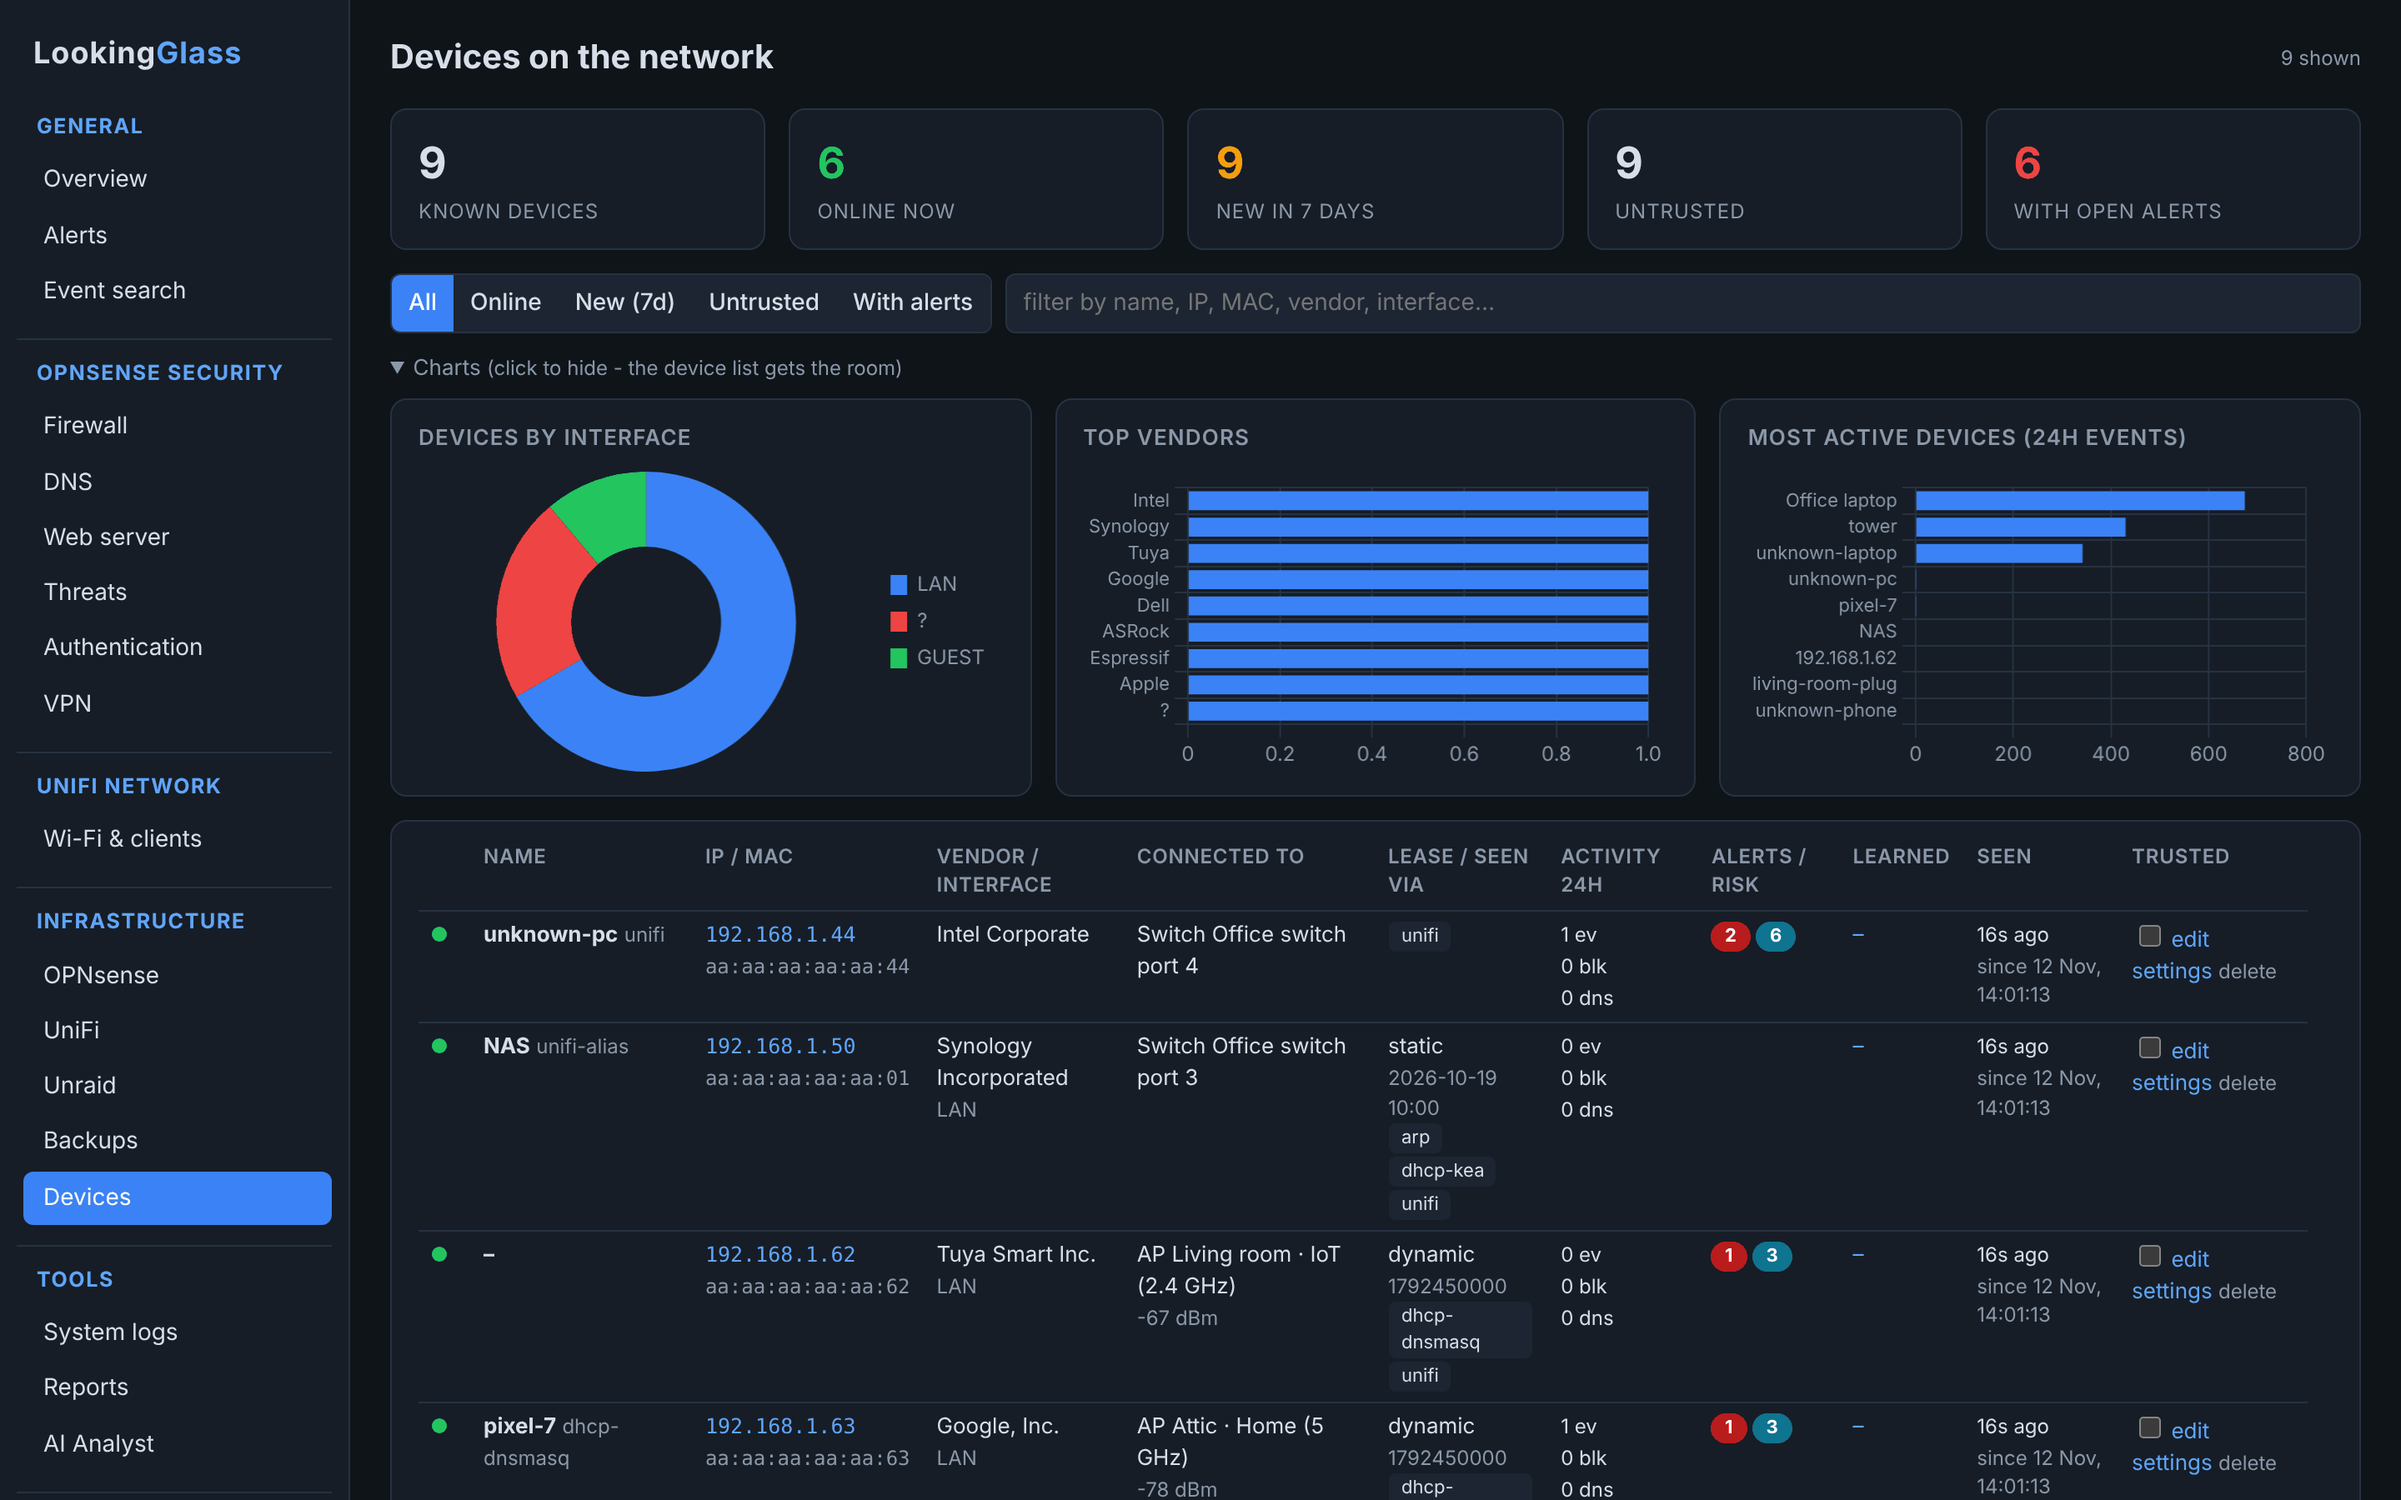
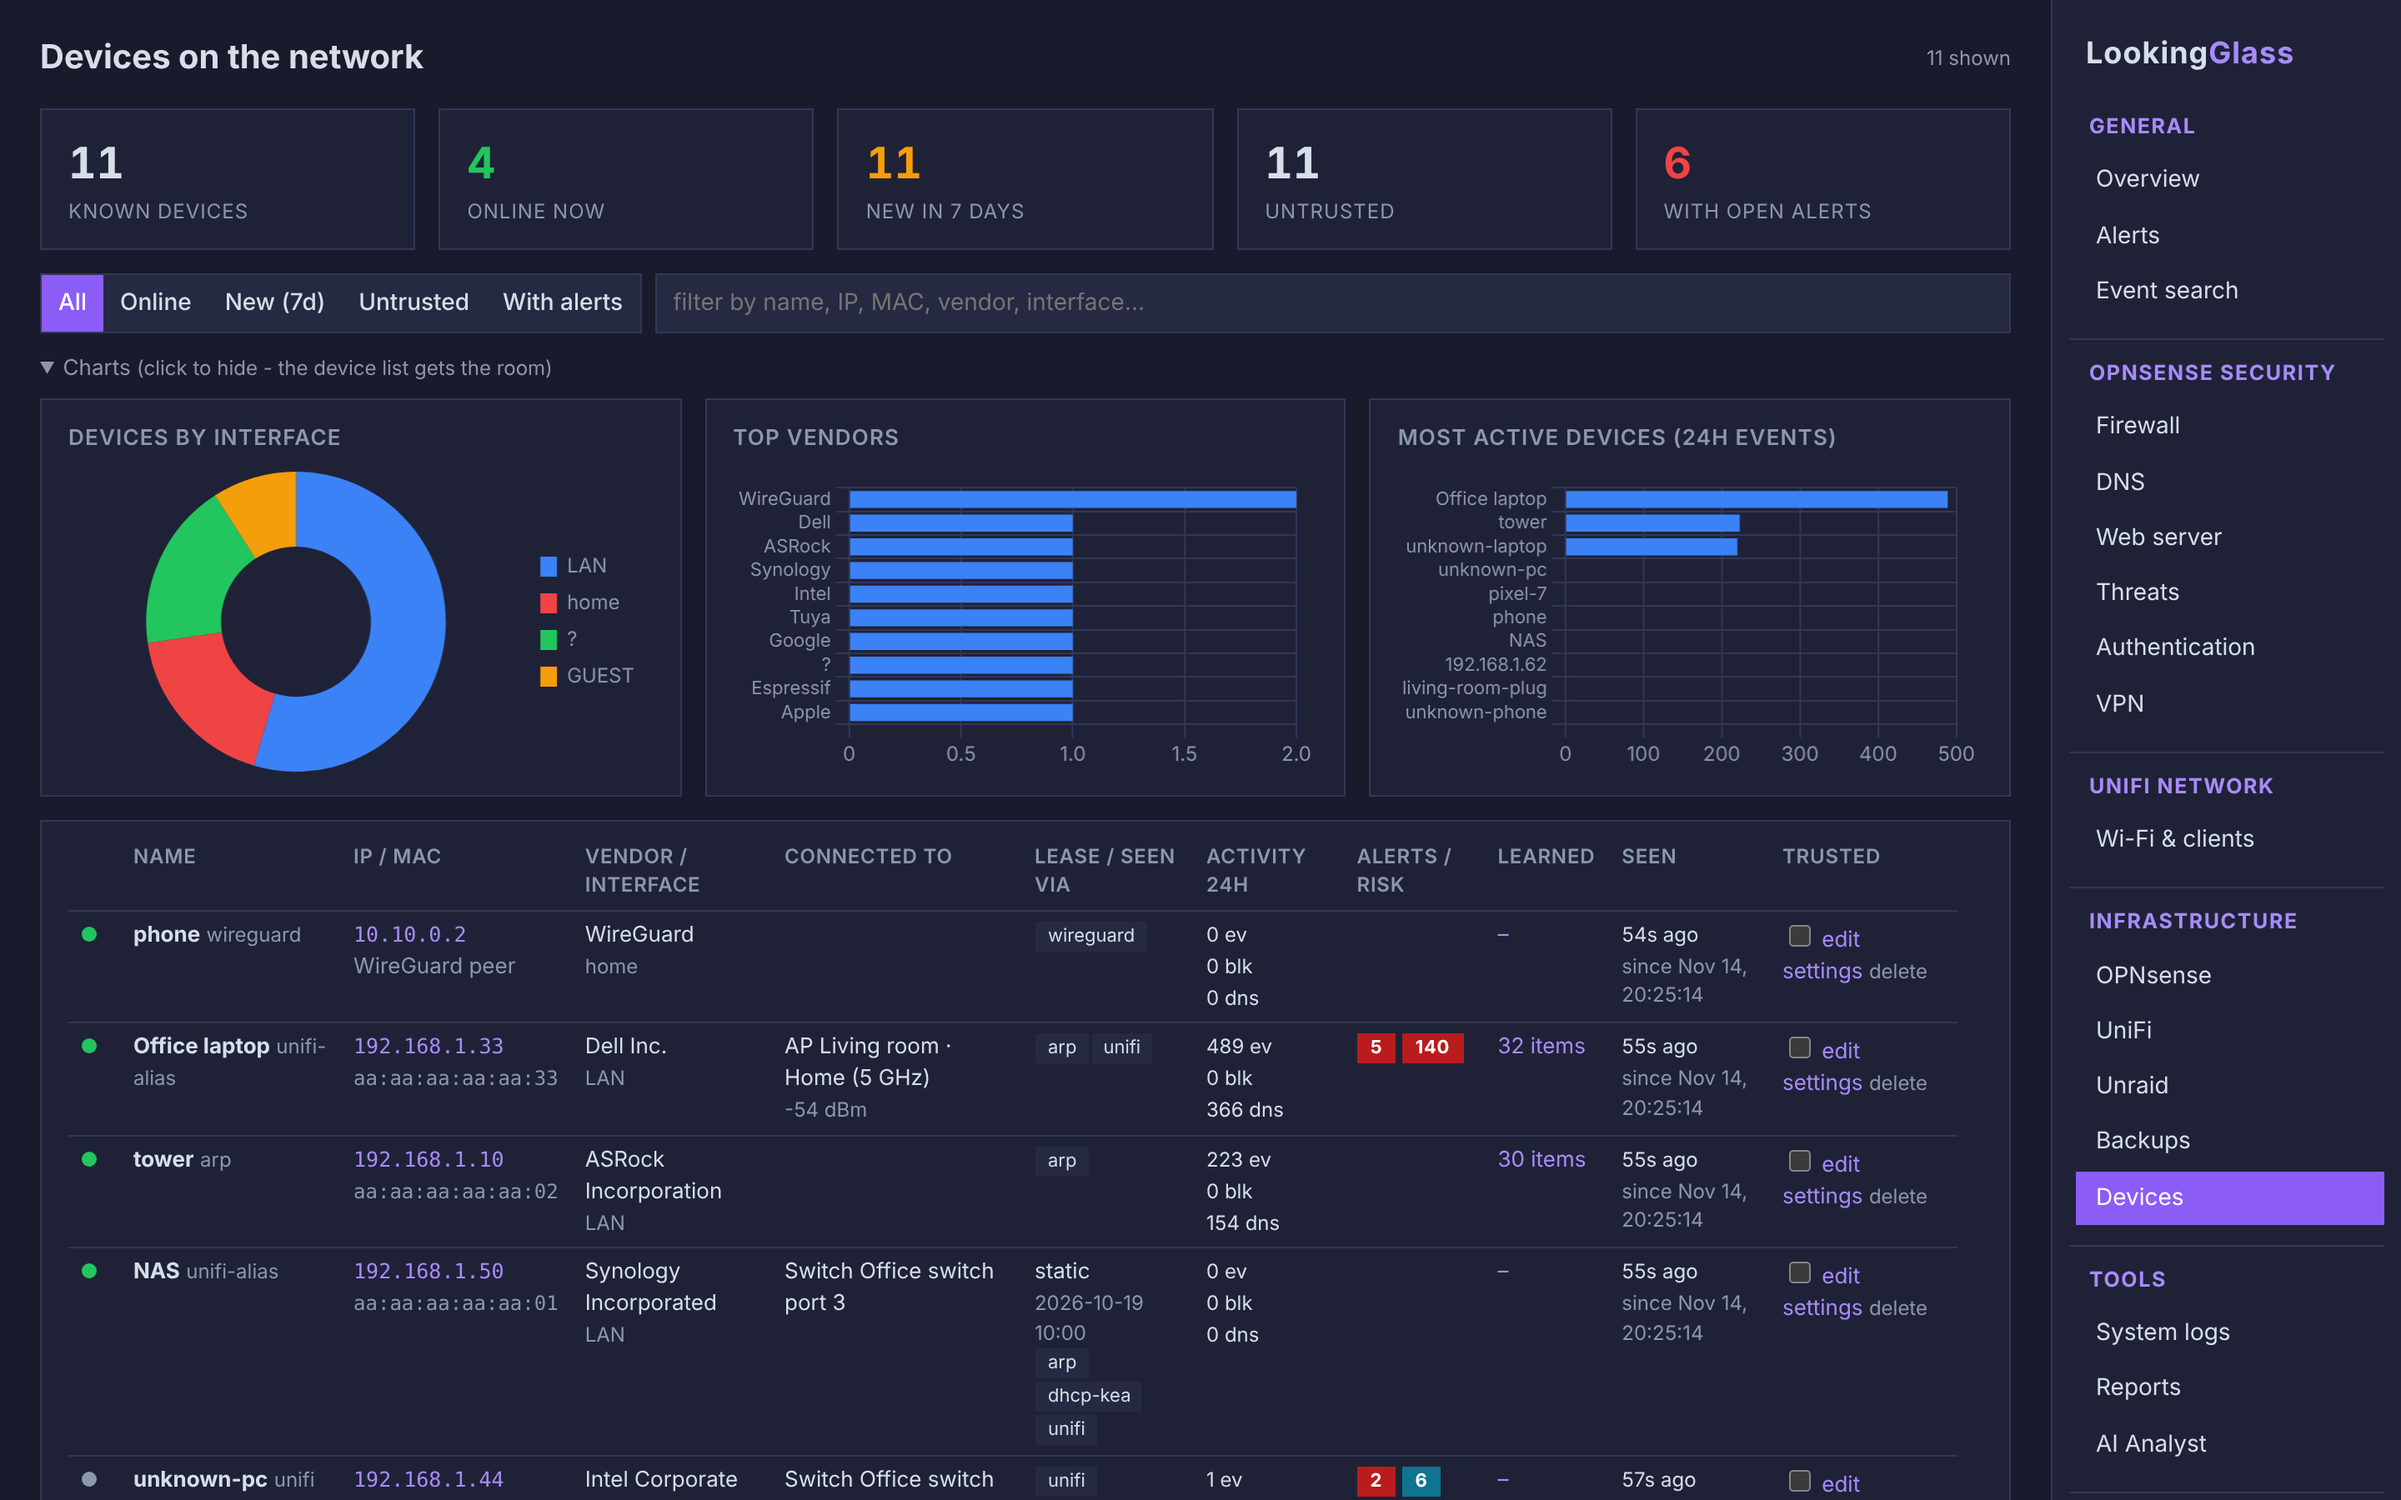
README screenshots: purple accent, square corners, menu on the right
All eleven screenshots retaken from the current develop (2880x1800, demo
data from the mock servers in tools/ and tools/simulate.py), with
Settings › Display set to purple, square corners and the menu bar on the
right. The caption says which display settings they use.

Claude-Session: https://claude.ai/code/session_0184JzzF1fsgfW2Kfgj4qB8P

diff --git a/README.md b/README.md
@@ -16,7 +16,8 @@ Image: `ghcr.io/gittimeraider/looking-glass:latest` (linux/amd64 + linux/arm64),
 
 ## Screenshots
 
-*Demo data: simulated OPNsense traffic and the mock OPNsense / UniFi / Unraid / AI servers from `tools/`.*
+*Demo data: simulated OPNsense traffic and the mock OPNsense / UniFi / Unraid / AI servers from `tools/`. Shown with
+the purple accent, square corners and the menu bar on the right (Settings › Display).*
 
 ![Overview: events, blocks, alerts and logins of the last 24 hours](docs/screenshots/overview.png)
 
